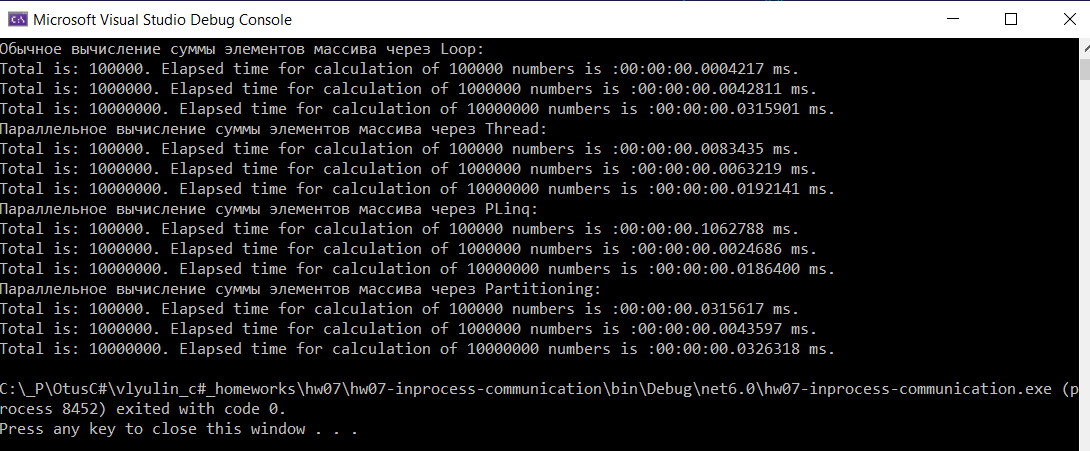
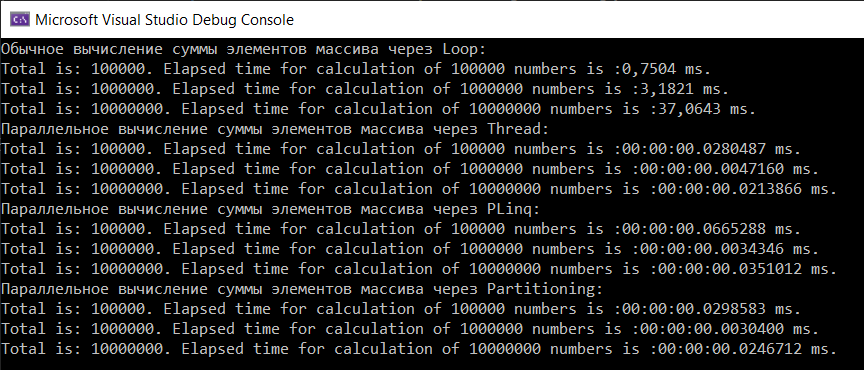
Fix hw07

diff --git a/hw07/hw07-inprocess-communication/Calculator.cs b/hw07/hw07-inprocess-communication/Calculator.cs
@@ -10,17 +10,13 @@ namespace hw07_inprocess_communication
 {
     internal class Calculator
     {
-        public Calculator()
-        {
-        }
-
         public void TimeViaLoop(int[] numbers)
         {
             var sw = Stopwatch.StartNew();
             long total = CalculateByLoop(numbers);
             sw.Stop();
             Console.WriteLine("Total is: " + total + ". Elapsed time for calculation of " + numbers.Length +
-                                  " numbers is :" + sw.Elapsed + " ms.");
+                                  " numbers is :" + sw.Elapsed.TotalMilliseconds + " ms.");
         }
 
         public long CalculateByLoop(int[] numbers)
@@ -43,7 +39,7 @@ namespace hw07_inprocess_communication
         }
         public long CalculateByThreads(int[] numbers)
         {
-            int threads = 2 * Environment.ProcessorCount;
+            int threads = Environment.ProcessorCount;
             ThreadPool.SetMaxThreads(threads, threads);
 
 

diff --git a/hw07/hw07-inprocess-communication/Program.cs b/hw07/hw07-inprocess-communication/Program.cs
@@ -7,9 +7,9 @@ namespace inprocess_communication
     {
         enum sizes : int
         {
-            ONE_HUNDRED = 100000,
-            ONE_MILLION = 1000000,
-            TEN_MILLIONS = 10000000
+            OneHundred = 100000,
+            OneMillion = 1000000,
+            TenMillions = 10000000
         };
         public static void Main(string[] args)
         {

diff --git a/README.md b/README.md
@@ -904,37 +904,43 @@ Options:
 
 Результаты выполнения:
 ---
-Обычное вычисление суммы элементов массива через Loop:
-```
-Total is: 100000. Elapsed time for calculation of 100000 numbers is :00:00:00.0004217 ms.
-Total is: 1000000. Elapsed time for calculation of 1000000 numbers is :00:00:00.0042811 ms.
-Total is: 10000000. Elapsed time for calculation of 10000000 numbers is :00:00:00.0315901 ms.
-```
----
-Параллельное вычисление суммы элементов массива через Thread:
-```
-Total is: 100000. Elapsed time for calculation of 100000 numbers is :00:00:00.0083435 ms.
-Total is: 1000000. Elapsed time for calculation of 1000000 numbers is :00:00:00.0063219 ms.
-Total is: 10000000. Elapsed time for calculation of 10000000 numbers is :00:00:00.0192141 ms.
-```
----
-Параллельное вычисление суммы элементов массива через PLinq:
-```
-Total is: 100000. Elapsed time for calculation of 100000 numbers is :00:00:00.1062788 ms.
-Total is: 1000000. Elapsed time for calculation of 1000000 numbers is :00:00:00.0024686 ms.
-Total is: 10000000. Elapsed time for calculation of 10000000 numbers is :00:00:00.0186400 ms.
-```
----
-Параллельное вычисление суммы элементов массива через Partitioning:
-```
-Total is: 100000. Elapsed time for calculation of 100000 numbers is :00:00:00.0315617 ms.
-Total is: 1000000. Elapsed time for calculation of 1000000 numbers is :00:00:00.0043597 ms.
-Total is: 10000000. Elapsed time for calculation of 10000000 numbers is :00:00:00.0326318 ms.
-```
+
+Обычное вычисление суммы элементов массива через Loop:  
+
+|Количество|Время, мс.|
+|---|---|
+|100000|0,7504|
+|1000000|3,1821|
+|10000000|37,0643|
+
+Параллельное вычисление суммы элементов массива через Thread:  
+
+|Количество|Время, мс.|
+|---|---|
+|100000|:00:00:00.0280487|
+|1000000|:00:00:00.0047160|
+|10000000|:00:00:00.0213866|
+
+Параллельное вычисление суммы элементов массива через PLinq:  
+
+|Количество|Время, мс.|
+|---|---|
+|100000|:00:00:00.0665288|
+|1000000|:00:00:00.0034346|
+|10000000|:00:00:00.0351012|
+
+Параллельное вычисление суммы элементов массива через Partitioning:  
+
+|Количество|Время, мс.|
+|---|---|
+|100000|:00:00:00.0298583|
+|1000000|:00:00:00.0030400|
+|10000000|:00:00:00.0246712|
 
 ![](hw07/imgs/hw07-result.png)
 
 ### Окружение 
+
 ![](hw07/imgs/hardware01.png)
 
 ![](hw07/imgs/hardware02.png)
